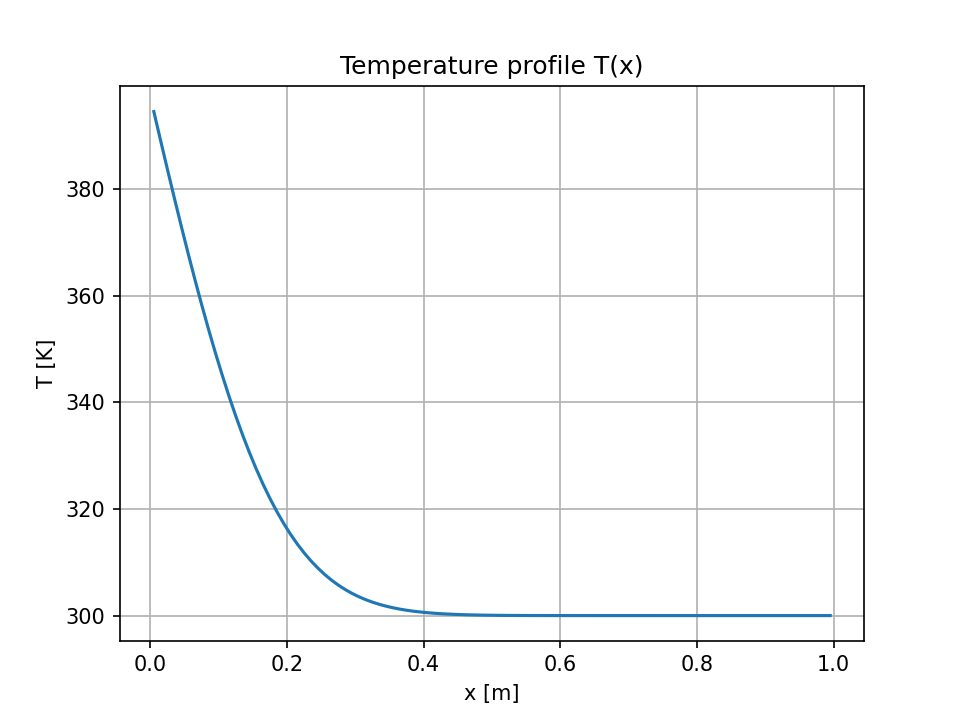
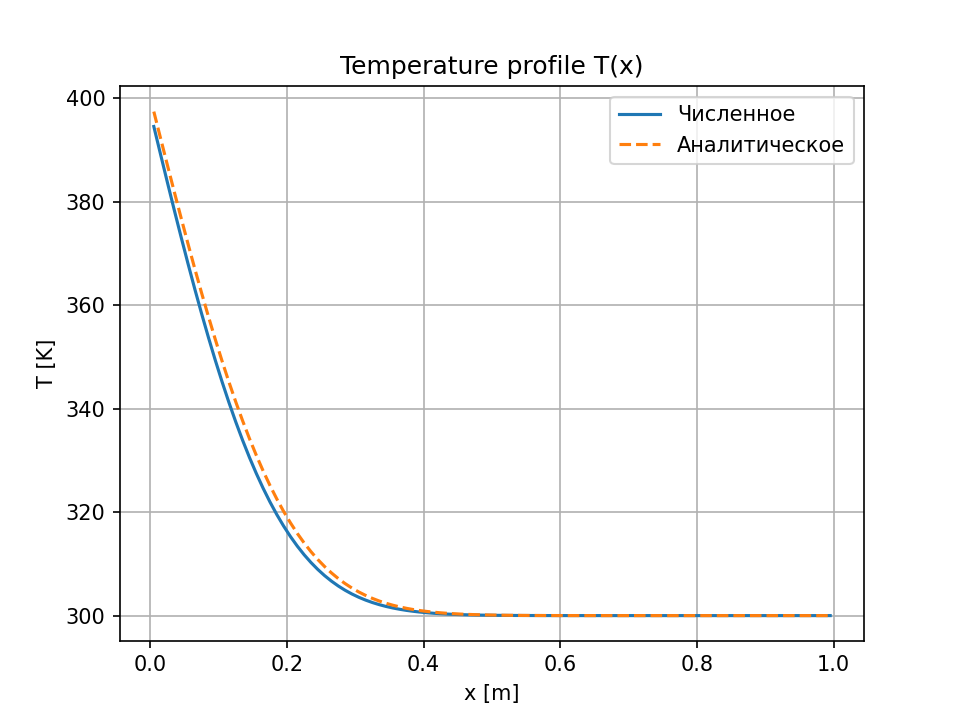
Добавленно аналитическое решение (ряд Фурье) и сравнение на графике

diff --git a/heat.c b/heat.c
@@ -1,6 +1,7 @@
 #include "heat.h"
 #include "settings.h"
 #include <stdio.h>
+#include <math.h>
 
 /* ===== РЕЖИМ 1: Сплайн из .dat ===== */
 #if USE_SPLINE
@@ -189,5 +190,32 @@ void updateParams(struct cell_t cells[NT]) {
         cells[c].rho    = crho(cells[c].T);
         cells[c].lambda = clambda(cells[c].T);
         cells[c].Cv     = cCv(cells[c].T);
+    }
+}
+
+/* ===== Аналитическое решение (ряд Фурье) ===== */
+
+#define K_TERMS 100
+
+void analyticalSolution(double *x, double *Ta, int n, double t) {
+    const double lam = clambda(T_INIT);
+    const double r   = crho(T_INIT);
+    const double cv  = cCv(T_INIT);
+    const double alpha = lam / (r * cv);
+
+    for (int i = 0; i < n; ++i) {
+        /* Стационарная часть */
+        double T = (T2 - T1) / L * x[i] + T1;
+
+        /* Нестационарная часть (ряд Фурье) */
+        for (int k = 1; k <= K_TERMS; ++k) {
+            const double lambda_k = (PI * k / L) * (PI * k / L);
+            const double sign_k = (k % 2 == 0) ? 1.0 : -1.0; /* (-1)^k */
+            const double Ak = (2.0 / (PI * k)) *
+                ((T_INIT - T1) * (1.0 - sign_k) + (T2 - T1) * sign_k);
+            T += Ak * sin(PI * k * x[i] / L) * exp(-alpha * lambda_k * t);
+        }
+
+        Ta[i] = T;
     }
 }

diff --git a/main.c b/main.c
@@ -37,5 +37,19 @@ int main(void) {
     }
     fclose(fp);
 
+    /* Аналитическое решение в последний момент времени */
+    double x_arr[NC], Ta[NC];
+    for (int i = 0; i < NC; ++i) {
+        x_arr[i] = cells[i + 1].x;
+    }
+    analyticalSolution(x_arr, Ta, NC, time);
+
+    FILE *fa = fopen("T_analytical.dat", "w");
+    fprintf(fa, "# x  T_analytical\n");
+    for (int i = 0; i < NC; ++i) {
+        fprintf(fa, "%f %f\n", x_arr[i], Ta[i]);
+    }
+    fclose(fa);
+
     return 0;
 }

diff --git a/plot.py b/plot.py
@@ -1,15 +1,16 @@
 import numpy as np
 import matplotlib.pyplot as plt
 
-data = np.loadtxt("T_profile.dat")
-x = data[:, 0]
-T = data[:, 1]
+num = np.loadtxt("T_profile.dat")
+ana = np.loadtxt("T_analytical.dat")
 
 plt.figure()
-plt.plot(x, T)
+plt.plot(num[:, 0], num[:, 1], label="Численное")
+plt.plot(ana[:, 0], ana[:, 1], '--', label="Аналитическое")
 plt.xlabel("x [m]")
 plt.ylabel("T [K]")
 plt.title("Temperature profile T(x)")
+plt.legend()
 plt.grid(True)
 plt.savefig("T_profile.png", dpi=150)
 plt.show()

diff --git a/heat.h b/heat.h
@@ -51,4 +51,7 @@ void computeSources(struct cell_t cells[NT], double tau);
 void updateTemp(struct cell_t cells[NT]);
 void updateParams(struct cell_t cells[NT]);
 
+/* --- Аналитическое решение (ряд Фурье) --- */
+void analyticalSolution(double *x, double *Ta, int n, double t);
+
 #endif // HEAT_H
